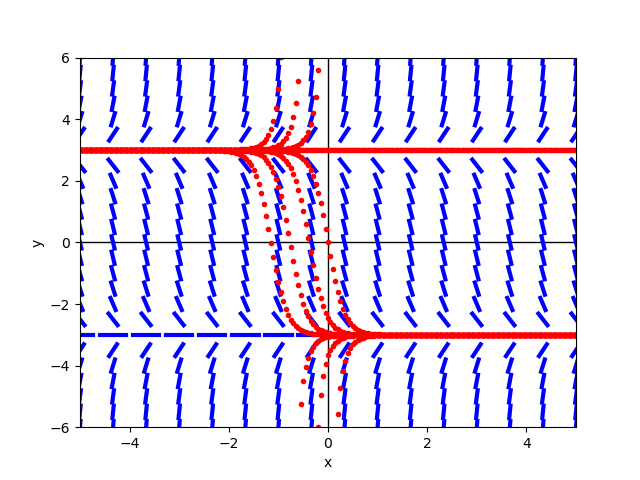
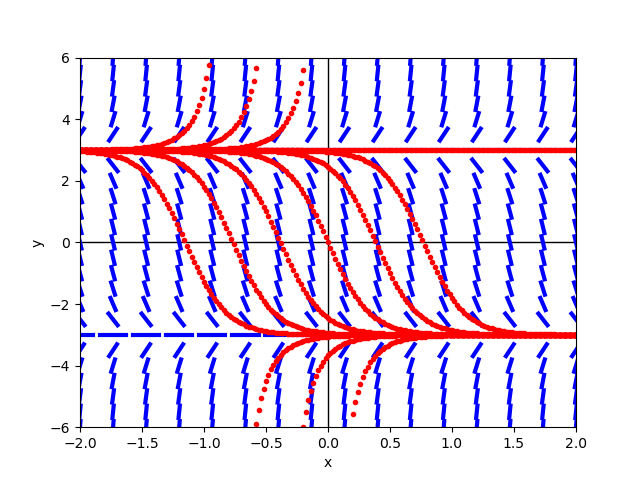
better figure and code

diff --git a/assets/codes/F23/quadde.py b/assets/codes/F23/quadde.py
@@ -20,10 +20,10 @@ def ysolution(x,A):
 from dirfield import dirfield
 import matplotlib.pyplot as plt
 
-dirfield(f, [-5, 5, -6, 6], 16, 25)
-for A in [100.0, 10.0, 1.0, 0.0, -1.0, -10.0, -100.0, -1000.0]:
-    xx = np.linspace(-5,5,201)
+dirfield(f, [-2, 2, -6, 6], 16, 25)
+for A in [100.0, 10.0, 1.0, 0.0, -0.01, -0.1, -1.0, -10.0, -100.0, -1000.0]:
+    xx = np.linspace(-2,2,201)
     plt.plot(xx, ysolution(xx,A), 'r.')
 plt.xlabel('x'), plt.ylabel('y')
-plt.axis([-5, 5, -6, 6])
+plt.axis([-2, 2, -6, 6])
 plt.show()
